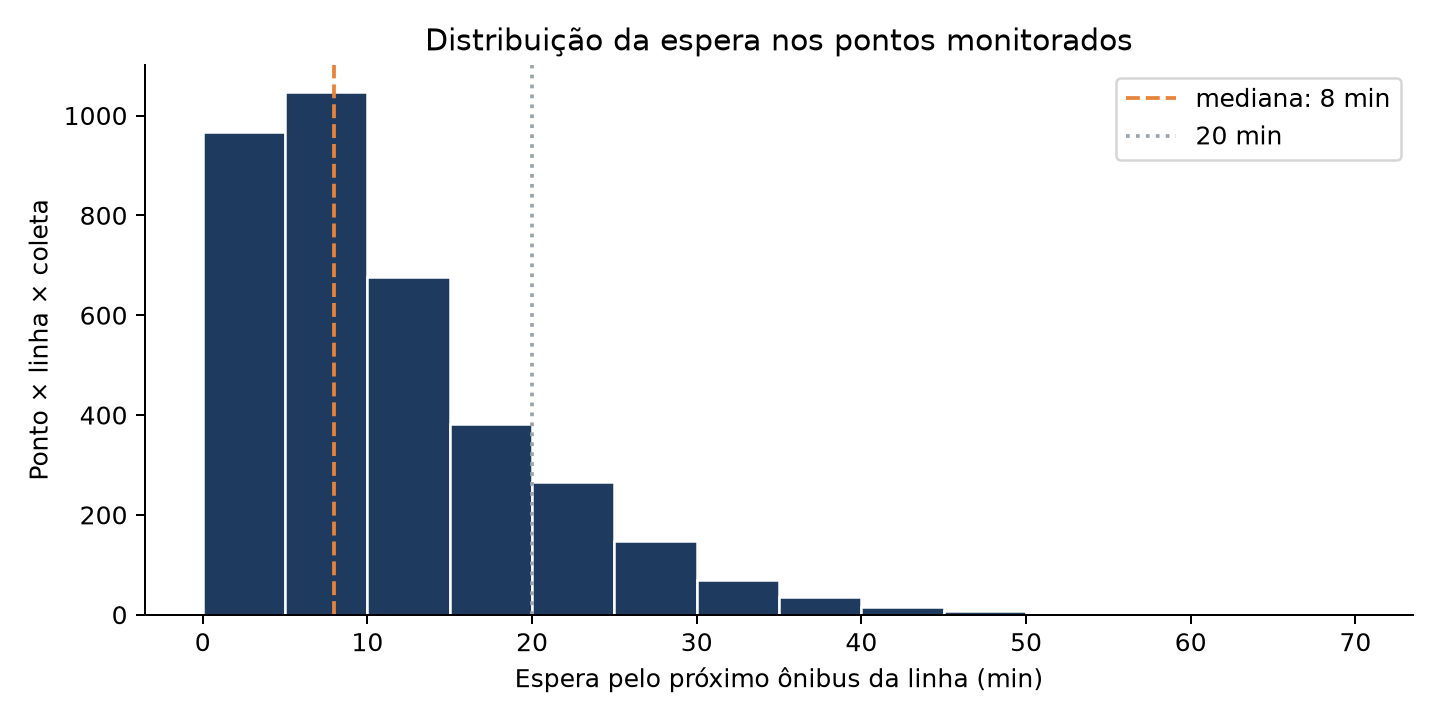
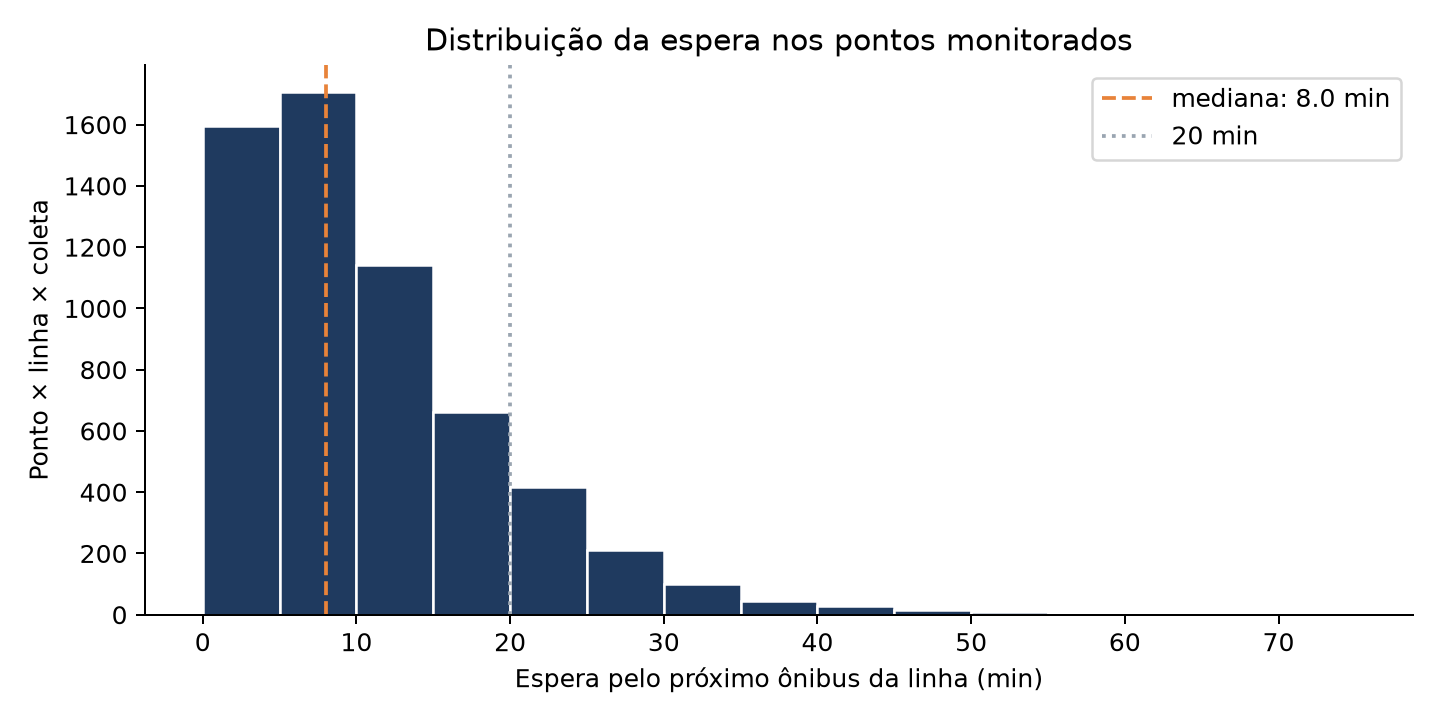
Data da coleta no fuso de SP (a coleta das 22h saia com a data do dia seguinte) e graficos com o lote 1 completo

diff --git a/dags/buslight_coleta.py b/dags/buslight_coleta.py
@@ -35,11 +35,11 @@ def pasta_chegada():
 
 
 def data_coleta():
-    # execução manual no Airflow 3 não tem data lógica (ds vazio), então usa a data do disparo
+    # data no fuso de SP: o ds do Airflow vem em UTC (a coleta das 22h viraria o dia seguinte)
+    # e a execução manual não tem data lógica, então usa a hora do disparo
     contexto = get_current_context()
-    if contexto.get("ds"):
-        return contexto["ds"]
-    return pendulum.instance(contexto["dag_run"].run_after).in_timezone("America/Sao_Paulo").to_date_string()
+    momento = contexto.get("logical_date") or contexto["dag_run"].run_after
+    return pendulum.instance(momento).in_timezone("America/Sao_Paulo").to_date_string()
 
 
 def lista_variable(nome):
